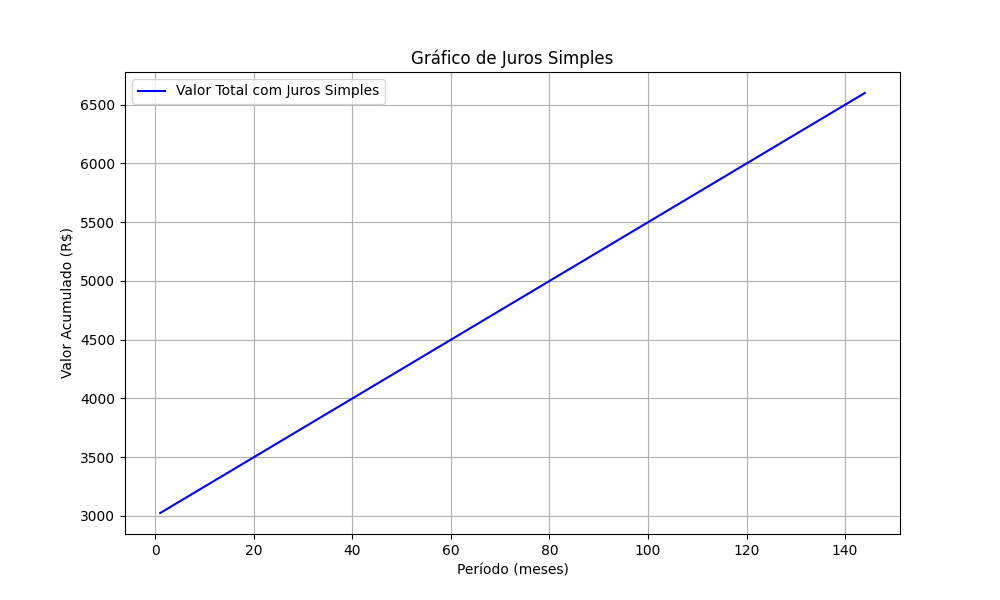
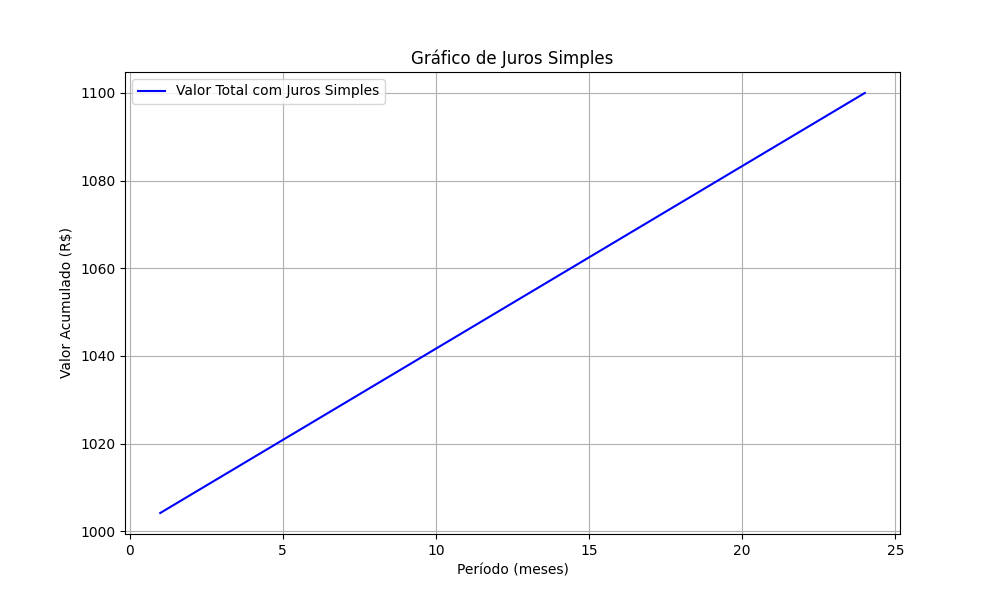
Added dropdown menu for time unit selection and completed simple/compound interest calculations.
- Implemented a dropdown menu to let users choose between years or months for the calculations.
- Finalized the math for simple and compound interest.

diff --git a/static/simpleInterest.css b/static/simpleInterest.css
@@ -117,7 +117,7 @@ button:hover {
     width: 40vh;
     align-items: center;
     position: absolute;
-    top: 74%;  /* Ajuste para centralizar verticalmente */
+    top: 85%;  /* Ajuste para centralizar verticalmente */
     left: 52.5%;
     transform: translate(-50%, -50%);
     margin-top: 20px;
@@ -163,4 +163,45 @@ button:hover {
     color: #FFFFFF;
     transform: scale(1.05);
 }
+
+select {
+    width: 150px;
+    padding: 10px;
+    border-radius: 5px;
+    border: 1px solid #B8C7CE;
+    background-color: #394A6D;
+    color: #FFFFFF;
+    font-family: 'Kanit', serif;
+    font-size: 16px;
+    text-align: center;
+    appearance: none; /* Remove o estilo padrão do dropdown */
+    display: block;
+    margin-top: 10px;
+    cursor: pointer;
+    transition: border-color 0.3s ease, box-shadow 0.3s ease;
+}
+
+select:focus {
+    outline: none;
+    border-color: #00A3CC;
+    box-shadow: 0px 0px 5px #00D1FF;
+}
+
+option {
+    background-color: #394A6D;
+    color: #FFFFFF;
+    font-family: 'Kanit', serif;
+}
+
+.right img{
+    width: 90%; 
+    max-width: 350px; 
+    border-radius: 12px; 
+    box-shadow: 0px 4px 20px rgba(0, 0, 0, 0.3); 
+    margin: 8px auto;
+    display: block; 
+    border: 2px solid #394A6D; 
+    background-color: #1B2735; 
+}
+
 

diff --git a/templates/compoundInterestPage/compoundInterest.html b/templates/compoundInterestPage/compoundInterest.html
@@ -20,10 +20,16 @@
                 <input type="number" name="tj" step="any" required>
             </div>
             <div class="form-group">
-                <label for="t">Período a.m:</label>
+                <label for="t">Período:</label>
                 <input type="number" name="t" step="any" required>
             </div>
-            
+            <div class="form-group">
+                <label for="unidade_tempo">Unidade de tempo:</label>
+                <select name="unidade_tempo" required>
+                    <option value="anos">Anos</option>
+                    <option value="meses">Meses</option>
+                </select>
+            </div>
             <button type="submit">Calcular</button>
         </form>
 
@@ -41,8 +47,8 @@
         </div>
       </div>
       <div class="right">
-        <h1>Gráfico</h1>
-        <img src="{{ url_for('static', filename='ImagemGrafico.png') }}" alt="Gráfico de Juros Simples" width="500">
+        <img src="{{ url_for('static', filename='ImagemGrafico2.png') }}" alt="Gráfico de Juros Compostos" width="350">
+        <img src="{{ url_for('static', filename='ImagemPizza2.png') }}" alt="Gráfico de Juros Compostos" width="350">
       </div>
     </div>
 </body>

diff --git a/templates/simpleInterestPage/simpleInterest.html b/templates/simpleInterestPage/simpleInterest.html
@@ -23,6 +23,13 @@
                 <label for="t">Período a.m:</label>
                 <input type="number" name="t" step="any" required>
             </div>
+            <div class="form-group">
+                <label for="unidade_tempo">Unidade de tempo:</label>
+                <select name="unidade_tempo" required>
+                    <option value="anos">Anos</option>
+                    <option value="meses">Meses</option>
+                </select>
+            </div>
             
             <button type="submit">Calcular</button>
         </form>
@@ -41,8 +48,8 @@
         </div>
       </div>
       <div class="right">
-        <h1>Gráfico</h1>
         <img src="{{ url_for('static', filename='ImagemGrafico.png') }}" alt="Gráfico de Juros Simples" width="500">
+        <img src="{{ url_for('static', filename='ImagemPizza.png') }}" alt="Gráfico de Juros Simples" width="500">
       </div>
     </div>
 </body>

diff --git a/main.py b/main.py
@@ -4,7 +4,10 @@ from flask import Flask, render_template, request, flash
 from blackscholes.calculo import calculo_blaack_sholes, calculo_nd1_nd2, calculos_intermediarios
 from templates.exchangeRate.exchangerate import get_exchange_rate
 from templates.Homepage.news import get_news
+
+# Import para calculos de juros simples e compostos
 from simpleInterest.simpleInterest import SimpleInterest
+from compoundInterest.compoundInterest import CompoundInterest
 
 app = Flask(__name__)
 
@@ -57,16 +60,20 @@ def simple_interest_page():
             pi = float(request.form['pi'])
             tj = float(request.form['tj'])
             t  = float(request.form['t'])
+            unidade_tempo = request.form['unidade_tempo'].lower().strip()
 
-            simple_interest = SimpleInterest(pi, tj, t)
+            simple_interest = SimpleInterest(pi, tj, t, unidade_tempo)
             resultado = round(simple_interest.calculo(), 2)
 
-            GRAPH_PATH = 'ImagemGrafico.png'
+            line_graph_path = 'ImagemGrafico.png'
+            simple_interest.gerarGrafico(graph_path=os.path.join('static', line_graph_path))
 
-            simple_interest.gerarGrafico(graph_path=os.path.join('static', GRAPH_PATH))
+            pie_graph_path =  'ImagemPizza.png'
+            simple_interest.gerarGraficoPizza(graph_path=os.path.join('static', pie_graph_path))
 
             return render_template('simpleInterestPage/simpleInterest.html', resultado=resultado,
-                                                                             graph_pah = GRAPH_PATH)
+                                                                             line_pah = line_graph_path,
+                                                                             pie_path = pie_graph_path)
 
         except ValueError:
             flash("Erro: Por favor, insira apenas números válidos.", "error")
@@ -83,16 +90,20 @@ def compound_Interest_page():
             pi = float(request.form['pi'])
             tj = float(request.form['tj'])
             t  = float(request.form['t'])
+            unidade_tempo = request.form['unidade_tempo']
 
-            compound_interest = SimpleInterest(pi, tj, t)
-            resultado = round(compound_interest.calculo(), 2)
+            compound_interest = CompoundInterest(pi, tj, t, unidade_tempo)
+            resultado = f"R$ {compound_interest.calculo():,.2f}"
 
-            GRAPH_PATH = 'ImagemGrafico.png'
+            line_graph_path = 'ImagemGrafico2.png'
+            compound_interest.gerarGrafico(graph_path=os.path.join('static', line_graph_path))
 
-            compound_interest.gerarGrafico(graph_path=os.path.join('static', GRAPH_PATH))
+            pie_graph_path =  'ImagemPizza2.png'
+            compound_interest.gerarGraficoPizza(graph_path=os.path.join('static', pie_graph_path))
 
             return render_template('compoundInterestPage/compoundInterest.html', resultado=resultado,
-                                                                             graph_pah = GRAPH_PATH)
+                                                                                 line_pah = line_graph_path,
+                                                                                 pie_path = pie_graph_path)
 
         except ValueError:
             flash("Erro: Por favor, insira apenas números válidos.", "error")

diff --git a/compoundInterest/compoundInterest.py b/compoundInterest/compoundInterest.py
@@ -1,39 +1,36 @@
 import matplotlib.pyplot as plt
+from simpleInterest.simpleInterest import SimpleInterest
 
-class SimpleInterest:
+class CompoundInterest(SimpleInterest):
     def __init__(self, pi, tj, t, unidade_tempo):
-        self.pi = pi
-        self.tj = tj / 100
-        self.t = t
-        self.unidade_tempo = unidade_tempo
+        super().__init__(pi, tj, t, unidade_tempo)
 
 
     def calculo(self):
-        if self.unidade_tempo == 'meses':
-            return self.pi * (1 + self.tj * self.t)
+        if self.unidade_tempo == "meses":
+            return self.pi* (1+ self.tj) ** self.t
         
         elif self.unidade_tempo == "anos":
             t_meses = self.t * 12
-            return self.pi * (1 + self.tj * t_meses)
+            return self.pi * (1 + self.tj) ** t_meses
         
         else:
             print("Erro! unidade de tempo invalida.")
-        
+       
 
-    def gerarGrafico(self, graph_path="static/ImagemGrafico.png"):
+    def gerarGrafico(self, graph_path="static/ImagemGrafico2.png"):
 
         periodos = list(range(1, int(self.t * 12) + 1))  
 
         valores = [self.pi * (1 + self.tj * (i / 12)) for i in periodos]  
-       
+
         plt.figure(figsize=(10, 6))
         plt.plot(periodos, valores, label="Valor Total com Juros Simples", color='blue')
         plt.xlabel('Período (meses)')
         plt.ylabel('Valor Acumulado (R$)')
-        plt.title('Gráfico de Juros Simples')
+        plt.title('Gráfico de Juros Compostos')
         plt.grid(True)
         plt.legend()
-
         plt.savefig(graph_path)
         plt.close()
 
@@ -54,3 +51,6 @@ class SimpleInterest:
          plt.axis('equal')
          plt.savefig(graph_path)
          plt.close()
+         
+
+
